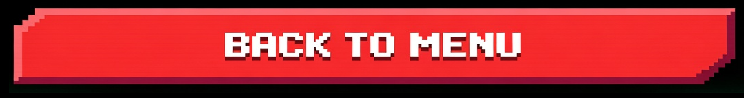
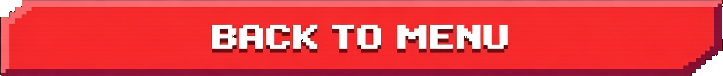
los tres botones del cartel de fin de partida, recortados al pixel y sin marco negro
el PNG traia el banner flotando dentro de una caja negra opaca: la caja del
boton medía mucho mas que el arte y al subirlo en el editor tapaba lo de
encima. Se recorta al bbox del banner y el negro pasa a transparente
(umbral 45, el arte no tiene contorno negro propio):
  spectate    747x111 -> 723x77   (el boton pasa de 70 a 50 px de alto)
  try-again  1082x139 -> 1048x118 (de 60 a 53)
  backtomenu  744x98  -> 723x76   (de 62 a 49)
el aspect-ratio del CSS lleva las medidas exactas del PNG, se actualiza con el

diff --git a/game/index.html b/game/index.html
@@ -2954,8 +2954,12 @@
     // menu-square que traia antes — al lado del de premio desentonaba. Va
     // ENTERO estirado como fondo y no en 9-slice por lo de siempre: el 9-slice
     // comprime el marco ondulado y deja de reconocerse el dibujo.
-    // Los botones SPECTATE/BACK TO MENU llevan su arte horneado (banner +
-    // texto), pisando el generico de _btnImgRule.
+    // Los botones TRY AGAIN/SPECTATE/BACK TO MENU llevan su arte horneado
+    // (banner + texto), pisando el generico de _btnImgRule. Los PNG van
+    // recortados al pixel y con alfa (nada de marco negro alrededor): la caja
+    // del boton mide justo lo que el banner, asi no tapa al de al lado ni
+    // estorba al colocarlos en el editor de carteles. Ojo: el aspect-ratio son
+    // las medidas EXACTAS del PNG — si se cambia el arte, hay que cambiarlo.
     function _resultOverlayRule() {
         let css = cartelUsesAtlas('prize-panel')
             ? 'body.pixel-pack .result-box{border:none!important;border-radius:0!important;box-shadow:none!important;' +
@@ -2971,17 +2975,17 @@
         if (cartelUsesAtlas('try-again')) {
             css += 'body.pixel-pack #btnTryAgainOnline{border:none!important;border-radius:0!important;clip-path:none!important;' +
                 'box-shadow:none!important;background:transparent url(' + cartelHeroUrl('try-again') + ') center/100% 100% no-repeat!important;' +
-                'aspect-ratio:1082/139;image-rendering:pixelated;color:transparent!important;text-shadow:none!important}';
+                'aspect-ratio:1048/118;image-rendering:pixelated;color:transparent!important;text-shadow:none!important}';
         }
         if (cartelUsesAtlas('spectate')) {
             css += 'body.pixel-pack .btn-spectate{border:none!important;border-radius:0!important;clip-path:none!important;' +
                 'box-shadow:none!important;background:transparent url(' + cartelHeroUrl('spectate') + ') center/100% 100% no-repeat!important;' +
-                'aspect-ratio:747/111;image-rendering:pixelated;color:transparent!important;text-shadow:none!important}';
+                'aspect-ratio:723/77;image-rendering:pixelated;color:transparent!important;text-shadow:none!important}';
         }
         if (cartelUsesAtlas('backtomenu')) {
             css += 'body.pixel-pack #btnBackToMenu{border:none!important;border-radius:0!important;clip-path:none!important;' +
                 'box-shadow:none!important;background:transparent url(' + cartelHeroUrl('backtomenu') + ') center/100% 100% no-repeat!important;' +
-                'aspect-ratio:744/98;image-rendering:pixelated;color:transparent!important;text-shadow:none!important}';
+                'aspect-ratio:723/76;image-rendering:pixelated;color:transparent!important;text-shadow:none!important}';
         }
         return css;
     }
